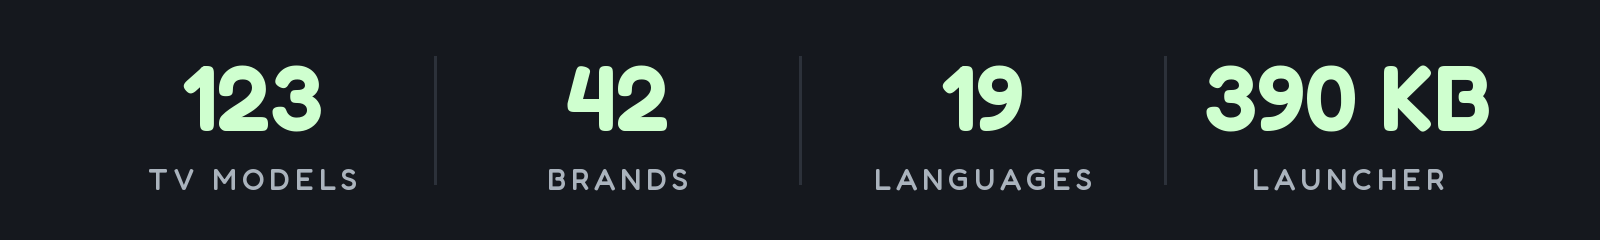
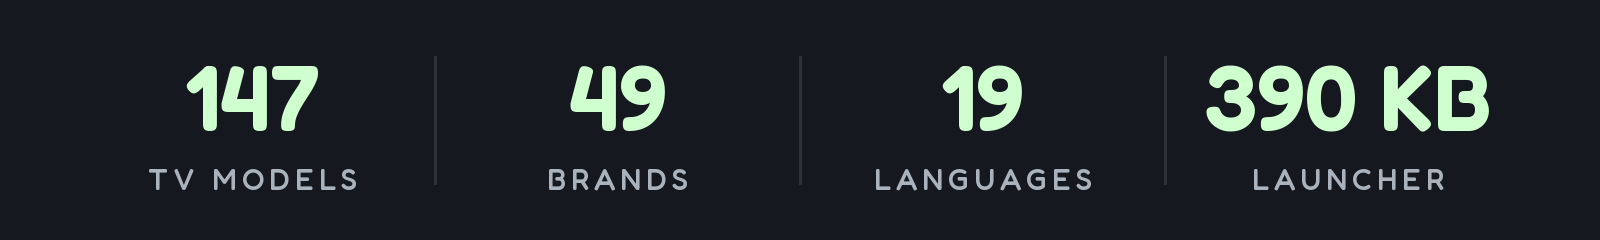
README: counts and tables after the Round K merges
147 TV models, 49 brands (new: Challenger, JVC, Kogan, Motorola, SHARP, Verizon, Vision; Google and Toshiba now group two each), 19 languages; stat card regenerated. Dropped the old header lines the union merges brought back.

Changed region(s): [[0.0938, 0.2625, 0.2188, 0.5542], [0.3438, 0.2625, 0.4375, 0.5542]]

diff --git a/tools/readme_stats.py b/tools/readme_stats.py
@@ -5,7 +5,7 @@ and rebuild the card with tools/readme_card.py. Fredoka is the variable TTF from
 import sys
 from PIL import Image, ImageDraw, ImageFont
 FONT, OUT = sys.argv[1], sys.argv[2]
-STATS = [("123", "TV MODELS"), ("42", "BRANDS"), ("19", "LANGUAGES"), ("390 KB", "LAUNCHER")]
+STATS = [("147", "TV MODELS"), ("49", "BRANDS"), ("19", "LANGUAGES"), ("390 KB", "LAUNCHER")]
 W, H = 1600, 240
 img = Image.new("RGB", (W, H), "#15181e"); d = ImageDraw.Draw(img)
 def f(size, wt):

diff --git a/README.md b/README.md
@@ -1,17 +1,5 @@
 <p align="center">
   <a href="https://cleanyour.tv"><img src="https://raw.githubusercontent.com/Gathin23/cleanyourtv/main/docs/banner.png" alt="CleanYourTV. Your TV, minus the ads. Strip the bloatware from any Android TV or Google TV over Wi-Fi and replace the ad-filled home screen with a clean launcher that looks like an Apple TV. No root, no cable, nothing uninstalled, and a one-line restore." width="800"></a>
-  <a href="https://cleanyour.tv"><img src="https://raw.githubusercontent.com/Gathin23/cleanyourtv/main/docs/banner.png" alt="CleanYourTV. Your TV, minus the ads." width="800"></a>
-</p>
-
-<h3 align="center">124 TV models &nbsp;·&nbsp; 38 brands &nbsp;·&nbsp; 18 languages &nbsp;·&nbsp; 390 KB launcher</h3>
-
-<p align="center">
-  <a href="https://cleanyour.tv">cleanyour.tv</a> ·
-  <a href="PROMPT.md">The prompt</a> ·
-  <a href="examples/">124 TV lists</a> ·
-  <a href="SHOWCASE.md">26 built on it</a> ·
-  <a href="https://x.com/gathint/status/2111379569030939102">The tweet</a> ·
-  <a href="README.zh-CN.md">简体中文</a>
 </p>
 
 <p align="center">
@@ -25,7 +13,7 @@
 </p>
 
 <p align="center">
-  <a href="docs/PRESS.md"><img src="docs/card.jpg" alt="123 TV models · 42 brands · 19 languages · 390 KB launcher. Featured in TechCrunch, Mashable, Android Authority, XDA, FlatpanelsHD, It's FOSS, Phandroid, GIGAZINE, Xataka, WinFuture, Frandroid, Macitynet, Techaeris, TechPP, The Daily Star, detikINET and 54 more: 70 articles from 21 countries. Before: stock Google TV home with a sponsored ad. After: the Clean Your TV launcher." width="800"></a>
+  <a href="docs/PRESS.md"><img src="docs/card.jpg" alt="147 TV models · 49 brands · 19 languages · 390 KB launcher. Featured in TechCrunch, Mashable, Android Authority, XDA, FlatpanelsHD, It's FOSS, Phandroid, GIGAZINE, Xataka, WinFuture, Frandroid, Macitynet, Techaeris, TechPP, The Daily Star, detikINET and 54 more: 70 articles from 21 countries. Before: stock Google TV home with a sponsored ad. After: the Clean Your TV launcher." width="800"></a>
 </p>
 
 > Vibe coded my parents' TV this afternoon! It was showing a sponsored ad before you could even get
@@ -98,12 +86,12 @@ sets refuse to install any launcher at all; their lists say so in the header.
 
 Tested lists from contributors, one folder per model in [`examples/`](examples/):
 
-**TCL** 26 · **Sony** 18 · **Xiaomi** 16 · **Philips** 8 · **Hisense** 6 · **Amazon Fire TV** 4 ·
-**Panasonic** 3 · **BenQ** 2 · **CHiQ** 2 · **Haier** 2 · **Hitachi** 2 · **NVIDIA Shield** 2 · **Skyworth** 2 ·
-**Vu** 2 · AiPro2K · AIWA · Cecotec · Chromecast with Google TV · Compac · EKO · FFalcon · Freebox ·
-Insignia Fire TV · Kalley · MTC · OnePlus · onn · Polytron · PRISM+ · RCA · Redmi · SANYO · Tele System ·
-Thomson · Toshiba Fire TV · Verizon · Vidda ·
-Thomson · Toshiba Fire TV · Vidda · Motorola ·
+**TCL** 32 · **Sony** 18 · **Xiaomi** 17 · **Philips** 8 · **Hisense** 6 · **Amazon Fire TV** 5 ·
+**Panasonic** 3 · **BenQ** 2 · **CHiQ** 2 · **Google** 2 · **Haier** 2 · **Hitachi** 2 · **Kalley** 2 ·
+**NVIDIA Shield** 2 · **OnePlus** 2 · **onn** 2 · **Skyworth** 2 · **Thomson** 2 · **Toshiba** 2 · **Vu** 2 ·
+AiPro2K · AIWA · Cecotec · Challenger · Compac · EKO · FFalcon · Freebox · Insignia Fire TV · JVC ·
+Kogan · Motorola · MTC · Polytron · PRISM+ · RCA · Redmi · SANYO · SHARP · Tele System · Verizon ·
+Vidda · Vision ·
 BYINTEK, JMGO, Portronics, Stellamore, Wanbo and XGIMI projectors
 
 <details>
@@ -114,15 +102,16 @@ BYINTEK, JMGO, Portronics, Stellamore, Wanbo and XGIMI projectors
 | AiPro2K (Expressluck, dongnae; Changhong AI PONT family) | Android TV 14 |
 | AIWA AI PONT SA (Changhong, osaka, ISDB86AW) | Google TV 14 |
 | Amazon Fire TV 50" 4K smart TV (AFTTIFF43, brandenburg) | Fire OS 7.7.1.7 / Android 9 |
+| Amazon Fire TV Stick 4K Max, 1st gen 2021 (AFTKA, kara), Colombia | Fire OS 7.7.1.3 / Android 9 |
 | Amazon Fire TV Stick 4K, 1st gen 2018 (AFTMM, mantis) | Fire OS 6.7.1.1 / Android 7.1 |
 | Amazon Fire TV Stick 4K, 2nd gen 2023 (AFTKM, karat), Brazil | Fire OS 8.1.8.5 / Android 11 |
-| Amazon Fire TV Stick 4K Max, 1st gen 2021 (AFTKA, kara) | Fire OS 7.7.1.3 / Android 9 |
 | Amazon Fire TV Stick Lite, 1st gen 2020 (AFTSS, sheldon) | Fire OS 7.7.1.7 / Android 9 |
 | BenQ E55-735 (Changhong AI PONT, DVB96BQ) | Google TV 14 |
 | BenQ E55-750 (Changhong AI PONT, DVB96BQ) | Google TV (Android 11) |
 | BYINTEK Love U4 projector, 1080P (Skyworth RG_HS352, HiSilicon Hi3751V350, 1 GB), Brazil | Android 9 |
 | BYINTEK T5 Max projector (built-in Google TV stick: SkyworthDigital YYT, Amlogic), Brazil | Google TV 14 |
 | Cecotec VQU10065S 65" QLED (Vestel-built, shandao, MediaTek), Spain | Android TV 14 |
+| Challenger 32T22 BT (cvt_mt5863_col, board TP.MT5510.PB781, MediaTek MT5659, 1 GB RAM), Colombia | Android 7.0 |
 | CHiQ AI PONT (Changhong GTVU65, dangni, MediaTek mt5867) | Google TV 14 |
 | CHiQ AI PONT (DVB93CQ) | Android TV 11 |
 | Chromecast with Google TV 4K (sabrina) | Google TV 14 |
@@ -130,6 +119,7 @@ BYINTEK, JMGO, Portronics, Stellamore, Wanbo and XGIMI projectors
 | EKO 2K Google TV (MTC-built, tennoji, MediaTek mt5867 / T56) | Google TV 14 |
 | FFalcon (雷鸟) 鹤6 PRO 65S585C Pro (China, tcl_mt5879_cn, MediaTek MT9653) | Android TV 11 |
 | Freebox Player POP (Free, fbx8am, Amlogic), IPTV/DVB-T box | Android TV 10 |
+| Google TV Streamer 4K (kirkwood, GZRNL) | Google TV 14 |
 | Haier Android TV DVB2K (broadway, HaierATVT56DVB) | Android TV 11 |
 | Haier H32S80EFX (MatrixTV CE, HRT56EU, deto, MediaTek), Thailand | Google TV 14 |
 | Hisense E5Q Pro (VIDAA_TV, MediaTek MT9653), China | Android TV 11 |
@@ -142,9 +132,10 @@ BYINTEK, JMGO, Portronics, Stellamore, Wanbo and XGIMI projectors
 | Hitachi CDH-LE32SMART21 (TCL-built C06, C06_2K_GB, MediaTek MT9221, 1 GB), Argentina | Android TV 11 |
 | Insignia 55" F30 4K Fire TV (NS-55F301NA25, AFTDCT31, duckie) | Fire OS 7 / Android 9 |
 | JMGO N1S projector (K80A, holan, MediaTek m7332), Australia | Google TV 14 |
-| Kalley 43G200 (device R3_GTV, MOKA, Realtek RTD2841A), Latin America | Google TV 14 |
 | JVC Android TV (Vestel-built, BARTU_Jvc, menlo, MediaTek mt5867), Spain | Android TV 11 |
+| Kalley 43G200 (device R3_GTV, MOKA, Realtek RTD2841A), Latin America | Google TV 14 |
 | Kalley R10G (device R10G, product ACER_FFM, MOKA, Realtek RTD2875P), Latin America | Google TV 14 |
+| Kogan Google TV (Changhong CHiQ AI PONT, GTVU65KG, dangni, MediaTek mt5867), Australia | Google TV 14 |
 | Motorola SWTV-24AE-FHD (Skyworth OEM, beomil, MediaTek), India/Global | Google TV 14 |
 | MTC UK 2K Android TV (tabata, MediaTek m5621; JVC-family firmware, `android.autoinstalls.config.JVC` present), UK | Android TV 11 |
 | NVIDIA SHIELD TV 2019 tube (P3430, sif) | Android TV 11 |
@@ -152,6 +143,7 @@ BYINTEK, JMGO, Portronics, Stellamore, Wanbo and XGIMI projectors
 | OnePlus TV (D00, Dubai) | Google TV 14 |
 | OnePlus Y1 43" (Y Series, shibuya) | Android TV 11 |
 | onn 4K Streaming Box (2023, Walmart; YOC, Amlogic), US | Google TV 14 |
+| onn. 4K Plus Streaming (2025, Walmart; coffey, Amlogic S905X5M), US | Google TV 14 |
 | Panasonic 4KTV-0SU (Skyworth-built SW4H, MediaTek m7332), Gulf region | Android TV 10 |
 | Panasonic 4KTV-JUP (Jupiter_PA, MediaTek) | Android TV 11 |
 | Panasonic TH-40HS550K (Skyworth-built, GS655 shibuya, MediaTek) | Android TV 11 |
@@ -191,21 +183,21 @@ BYINTEK, JMGO, Portronics, Stellamore, Wanbo and XGIMI projectors
 | Sony BRAVIA XBR-65X900E (2017, BRAVIA_ATV2) | Android TV 9 |
 | Sony BRAVIA XBR-65X900F (2018, BRAVIA_ATV3_4K, MediaTek MT5891), US/Canada | Android TV 9 |
 | Stellamore T950S projector (Droidlogic be30a3, Amlogic txhd2) | Android 13 |
+| TCL / FFalcon China (tcl9655_cn, MediaTek MT9655 "merak", UTT2.250416.001 AU01) | Android 14 |
+| TCL 32L5A (C06, model "Smart TV", 1 GB) | Android TV 11 |
 | TCL 32S5400A (C06, C06_2K_GB, MediaTek MT9221, 1 GB), 2023 | Android TV 11 |
 | TCL 32S5K (C06, C06_2K_GB, MediaTek MT9221, 918 MB), EU | Android TV 11 |
-| TCL 32L5A (C06, model "Smart TV", 1 GB) | Android TV 11 |
 | TCL 40S5400A (C06, C06_2K_GB, MediaTek MT9221, 1 GB) | Android TV 11 |
-| TCL L40S66E (C06, C06_2K_GB, MediaTek MT9221, 1 GB), Argentina | Android TV 11 |
 | TCL 43C645 (Smart TV Pro, Realtek RTD2851 / R51MT05, V8-R51MT05-LF1V652) | Google TV launcher on Android TV 11 |
 | TCL 43EP660 (Europe, BeyondTV, Realtek rtd285o, V8-R851T02-LF1V378) | Android TV 9 |
 | TCL 43S5K (G13, G13_2K_GB, MediaTek MT9221, 1 GB), India | Google TV 14 |
 | TCL 50EP680 (Europe, BeyondTV, Realtek rtd285o) | Android TV 11 |
 | TCL 55" 4K Google TV, 2023 (G10, G10_4K_US_NF); also TCL 55P6K, Spain (G10_4K_GB_NF_32BIT) | Google TV 12 |
+| TCL 55C715 QLED (Europe, BeyondTV2, Realtek RTD2851, V8-R851T02-LF1V606) | Android TV 9 |
 | TCL 55C725 (Smart TV Pro, BeyondTV4, G03_4K_GB, Realtek R51MT05, V8-R51MT05-LF1V620), Italy | Google TV launcher on Android TV 11 |
 | TCL 55C815 (2020, Europe/Denmark, BeyondTV2, Realtek rtd285o) | Android TV 11 |
 | TCL 55P7K, Middle East (G10, G10_4K_GB, Realtek RTD2875P) | Google TV 12 |
 | TCL 55Q10G Pro (China, tcl_mt5879_cn, MediaTek MT9952) | Android TV 11 |
-| TCL 55C715 QLED (Europe, BeyondTV2, Realtek RTD2851, V8-R851T02-LF1V606) | Android TV 9 |
 | TCL 55S470G (G10, G10_4K_US_NF, Realtek), US | Google TV 12 |
 | TCL 65C725 (Smart TV Pro, BeyondTV4) | Android TV 11 |
 | TCL 65C735 (Smart TV Pro, G05, MediaTek), France | Google TV 11 |
@@ -216,6 +208,7 @@ BYINTEK, JMGO, Portronics, Stellamore, Wanbo and XGIMI projectors
 | TCL BeyondTV2 (Latin America / Brazil, Realtek RTD2851) | Android TV 9 |
 | TCL BeyondTV2, Android 11 build (AR05, Realtek rtd285o) | Android TV 11 |
 | TCL C755 QD-Mini LED, 2024, Australia (G08, MediaTek tcl9618) | Google TV 14 |
+| TCL L40S66E (C06, C06_2K_GB, MediaTek MT9221, 1 GB), Argentina | Android TV 11 |
 | TCL QM6K Pro, 2025 (G08, MediaTek tcl9618) | Google TV 14 |
 | TCL Smart TV (G07, G07_4K_GB_NF, Realtek RTD2851A, 2 GB) | Google TV 11 |
 | TCL Smart TV Pro (G03, G03_4K_GB, BeyondTV4, Realtek R51MT05, V8-R51MT05-LF1V620), Middle East firmware | Google TV 11 |
@@ -225,6 +218,7 @@ BYINTEK, JMGO, Portronics, Stellamore, Wanbo and XGIMI projectors
 | Tele System TS ON T2/HD (ONT2HD, SDMC, Amlogic), Italy | Android TV 11 |
 | Thomson 32HE5800 (TCL-built UnionTV, Realtek RT2841), Spain | Android TV 9 |
 | Thomson T32RTL6000 (SCBC, Realtek; Android reports model `ATV R1`) | Android TV 9 |
+| Toshiba (Vestel Cosmos170, yeoksam, MediaTek), Spain | Android TV 11 |
 | Toshiba Fire TV (AFTHA004, hazel) | Fire OS 7 / Android 9 |
 | Verizon Stream TV, 1st gen (WNC JS8V, Amlogic), US | Android 12 |
 | Vidda VIDAA_TV (Hisense sub-brand; device MT9653, board mt5879), China JuUI | Android TV 11 |
@@ -233,8 +227,8 @@ BYINTEK, JMGO, Portronics, Stellamore, Wanbo and XGIMI projectors
 | Vu Premium FHD 43-inch (Smart 2K ATV4, hamamatsucho), India | Android TV 9 |
 | Wanbo X5 Pro projector (built-in Google TV stick: SkyworthDigital YYT, Amlogic), Australia | Google TV 14 |
 | XGIMI Horizon S Pro projector (XK03H, xgimigalileo, MediaTek) | Android TV 11 |
-| XGIMI MoGo 3 Pro projector (G0035, altai, MediaTek) | Google TV 14 |
 | XGIMI MoGo 2 projector (MoGo, xgimiapollo, pokemon) | Android TV 11 |
+| XGIMI MoGo 3 Pro projector (G0035, altai, MediaTek) | Google TV 14 |
 | Xiaomi Mi Box S (MIBOX4, oneday), streaming box | Android TV 9 |
 | Xiaomi Mi Box S 2nd gen (MiTV-AFKR0, jaws), streaming box | Google TV 11 |
 | Xiaomi Mi TV (MiTV-MOOQ0, croods) | Android TV 10 |
